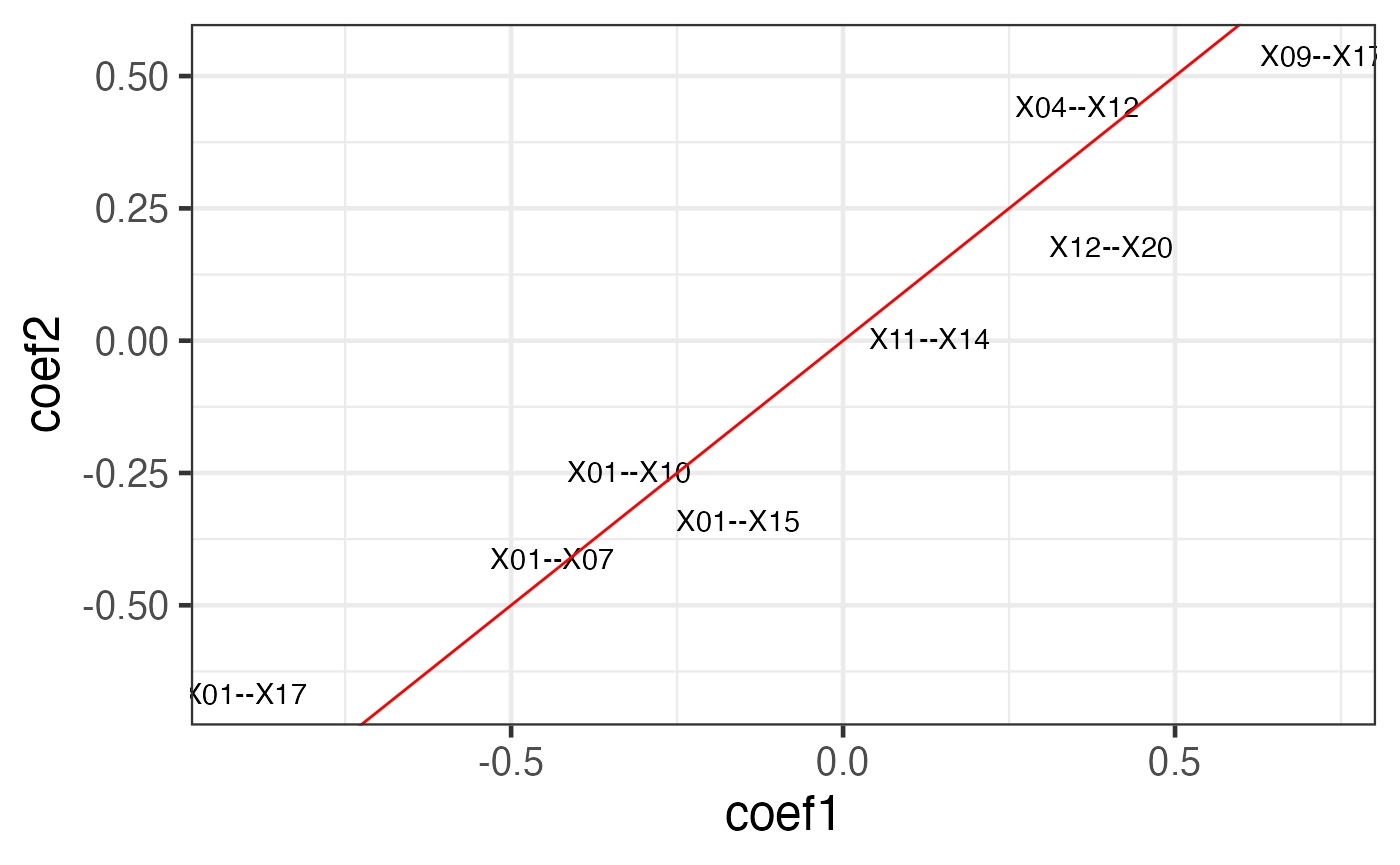
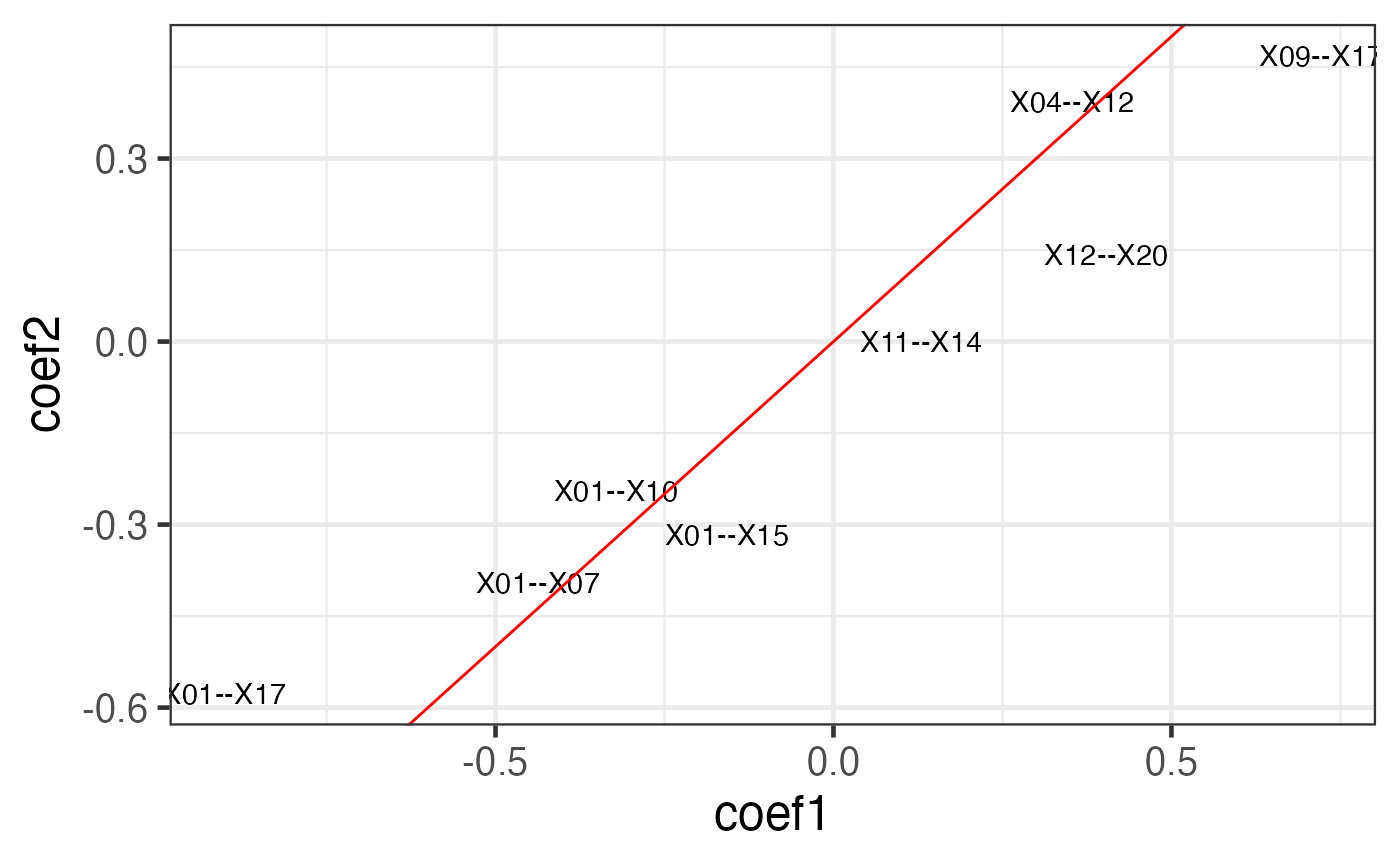
Built site for CPOP: 0.0.24@93ba422

diff --git a/articles/CPOP.html b/articles/CPOP.html
@@ -149,28 +149,28 @@
 <pre><code><span class="co">## Fitting CPOP model using alpha = 1</span></code></pre>
 <pre><code><span class="co">## Based on previous alpha, 0 features are kept</span></code></pre>
 <pre><code><span class="co">## CPOP1 - Step 01: Number of selected features: 0 out of 190</span></code></pre>
-<pre><code><span class="co">## CPOP1 - Step 02: Number of selected features: 8 out of 190</span></code></pre>
-<pre><code><span class="co">## CPOP1 - Step 03: Number of selected features: 15 out of 190</span></code></pre>
+<pre><code><span class="co">## CPOP1 - Step 02: Number of selected features: 9 out of 190</span></code></pre>
+<pre><code><span class="co">## CPOP1 - Step 03: Number of selected features: 16 out of 190</span></code></pre>
 <pre><code><span class="co">## 10 features was reached.</span></code></pre>
-<pre><code><span class="co">## A total of 15 features were selected.</span></code></pre>
-<pre><code><span class="co">## Removing sources of collinearity gives 12 features.</span></code></pre>
+<pre><code><span class="co">## A total of 16 features were selected.</span></code></pre>
+<pre><code><span class="co">## Removing sources of collinearity gives 13 features.</span></code></pre>
 <pre><code><span class="co">## 10 features was reached.</span></code></pre>
-<pre><code><span class="co">## A total of 12 features were selected.</span></code></pre>
-<pre><code><span class="co">## CPOP2 - Sign: Step 01: Number of leftover features: 9 out of 12</span></code></pre>
+<pre><code><span class="co">## A total of 13 features were selected.</span></code></pre>
+<pre><code><span class="co">## CPOP2 - Sign: Step 01: Number of leftover features: 9 out of 13</span></code></pre>
 <pre><code><span class="co">## The sign matrix between the two data:</span></code></pre>
 <pre><code><span class="co">##     </span>
 <span class="co">##      -1 0 1</span>
-<span class="co">##   -1  0 0 0</span>
+<span class="co">##   -1  0 0 1</span>
 <span class="co">##   0   0 0 0</span>
 <span class="co">##   1   3 0 0</span></code></pre>
-<pre><code><span class="co">## CPOP2 - Sign: Step 02: Number of leftover features: 8 out of 12</span>
+<pre><code><span class="co">## CPOP2 - Sign: Step 02: Number of leftover features: 8 out of 13</span>
 <span class="co">## The sign matrix between the two data:</span></code></pre>
 <pre><code><span class="co">##     </span>
 <span class="co">##      -1 0 1</span>
 <span class="co">##   -1  0 0 0</span>
 <span class="co">##   0   0 0 0</span>
 <span class="co">##   1   1 0 0</span></code></pre>
-<pre><code><span class="co">## CPOP2 - Sign: Step 03: Number of leftover features: 8 out of 12</span>
+<pre><code><span class="co">## CPOP2 - Sign: Step 03: Number of leftover features: 8 out of 13</span>
 <span class="co">## The sign matrix between the two data:</span></code></pre>
 <pre><code><span class="co">##     </span>
 <span class="co">##      -1 0 1</span>
@@ -194,16 +194,16 @@
 <pre><code><span class="co">## </span>
 <span class="co">## $data</span>
 <span class="co">## <span style="color: #949494;"># A tibble: 8 × 3</span></span>
-<span class="co">##   coef_name  coef1    coef2</span>
-<span class="co">##   <span style="color: #949494; font-style: italic;">&lt;fct&gt;</span>      <span style="color: #949494; font-style: italic;">&lt;dbl&gt;</span>    <span style="color: #949494; font-style: italic;">&lt;dbl&gt;</span></span>
-<span class="co">## <span style="color: #BCBCBC;">1</span> X01--X10  -<span style="color: #BB0000;">0.322</span> -<span style="color: #BB0000;">0.246</span>  </span>
-<span class="co">## <span style="color: #BCBCBC;">2</span> X09--X17   0.722  0.538  </span>
-<span class="co">## <span style="color: #BCBCBC;">3</span> X11--X14   0.130  0.003<span style="text-decoration: underline;">47</span></span>
-<span class="co">## <span style="color: #BCBCBC;">4</span> X12--X20   0.404  0.178  </span>
-<span class="co">## <span style="color: #BCBCBC;">5</span> X01--X07  -<span style="color: #BB0000;">0.437</span> -<span style="color: #BB0000;">0.412</span>  </span>
-<span class="co">## <span style="color: #BCBCBC;">6</span> X01--X15  -<span style="color: #BB0000;">0.158</span> -<span style="color: #BB0000;">0.340</span>  </span>
-<span class="co">## <span style="color: #BCBCBC;">7</span> X01--X17  -<span style="color: #BB0000;">0.901</span> -<span style="color: #BB0000;">0.667</span>  </span>
-<span class="co">## <span style="color: #BCBCBC;">8</span> X04--X12   0.353  0.443</span></code></pre>
+<span class="co">##   coef_name  coef1     coef2</span>
+<span class="co">##   <span style="color: #949494; font-style: italic;">&lt;fct&gt;</span>      <span style="color: #949494; font-style: italic;">&lt;dbl&gt;</span>     <span style="color: #949494; font-style: italic;">&lt;dbl&gt;</span></span>
+<span class="co">## <span style="color: #BCBCBC;">1</span> X01--X10  -<span style="color: #BB0000;">0.322</span> -<span style="color: #BB0000;">0.245</span>   </span>
+<span class="co">## <span style="color: #BCBCBC;">2</span> X09--X17   0.722  0.468   </span>
+<span class="co">## <span style="color: #BCBCBC;">3</span> X11--X14   0.130  0.000<span style="text-decoration: underline;">811</span></span>
+<span class="co">## <span style="color: #BCBCBC;">4</span> X12--X20   0.404  0.143   </span>
+<span class="co">## <span style="color: #BCBCBC;">5</span> X01--X07  -<span style="color: #BB0000;">0.437</span> -<span style="color: #BB0000;">0.395</span>   </span>
+<span class="co">## <span style="color: #BCBCBC;">6</span> X01--X15  -<span style="color: #BB0000;">0.158</span> -<span style="color: #BB0000;">0.316</span>   </span>
+<span class="co">## <span style="color: #BCBCBC;">7</span> X01--X17  -<span style="color: #BB0000;">0.901</span> -<span style="color: #BB0000;">0.577</span>   </span>
+<span class="co">## <span style="color: #BCBCBC;">8</span> X04--X12   0.353  0.393</span></code></pre>
 <p>We can see that most of the selected features had similar coefficients across the two data. This is exactly what CPOP is aiming to achieve: selecting features that are consistent within each datasets.</p>
 <p>However, each of the feature (e.g. <code>X01--X10</code>) actually corresponds to two of the original features in the raw data <code>X01</code> and <code>X10</code> in the data <code>x1</code> and <code>x2</code>. We can further visualise these features in the original features.</p>
 <div class="sourceCode" id="cb33"><pre class="downlit sourceCode r">
@@ -213,16 +213,16 @@
 <pre><code><span class="co">## </span>
 <span class="co">## $data</span>
 <span class="co">## <span style="color: #949494;"># A tibble: 8 × 7</span></span>
-<span class="co">##   from  to     coef1    coef2 coef_avg coef_abs sign_coef1</span>
-<span class="co">##   <span style="color: #949494; font-style: italic;">&lt;chr&gt;</span> <span style="color: #949494; font-style: italic;">&lt;chr&gt;</span>  <span style="color: #949494; font-style: italic;">&lt;dbl&gt;</span>    <span style="color: #949494; font-style: italic;">&lt;dbl&gt;</span>    <span style="color: #949494; font-style: italic;">&lt;dbl&gt;</span>    <span style="color: #949494; font-style: italic;">&lt;dbl&gt;</span> <span style="color: #949494; font-style: italic;">&lt;chr&gt;</span>     </span>
-<span class="co">## <span style="color: #BCBCBC;">1</span> X01   X10   -<span style="color: #BB0000;">0.322</span> -<span style="color: #BB0000;">0.246</span>    -<span style="color: #BB0000;">0.284</span>    0.284  Negative  </span>
-<span class="co">## <span style="color: #BCBCBC;">2</span> X09   X17    0.722  0.538     0.630    0.630  Positive  </span>
-<span class="co">## <span style="color: #BCBCBC;">3</span> X11   X14    0.130  0.003<span style="text-decoration: underline;">47</span>   0.066<span style="text-decoration: underline;">9</span>   0.066<span style="text-decoration: underline;">9</span> Positive  </span>
-<span class="co">## <span style="color: #BCBCBC;">4</span> X12   X20    0.404  0.178     0.291    0.291  Positive  </span>
-<span class="co">## <span style="color: #BCBCBC;">5</span> X01   X07   -<span style="color: #BB0000;">0.437</span> -<span style="color: #BB0000;">0.412</span>    -<span style="color: #BB0000;">0.425</span>    0.425  Negative  </span>
-<span class="co">## <span style="color: #BCBCBC;">6</span> X01   X15   -<span style="color: #BB0000;">0.158</span> -<span style="color: #BB0000;">0.340</span>    -<span style="color: #BB0000;">0.249</span>    0.249  Negative  </span>
-<span class="co">## <span style="color: #BCBCBC;">7</span> X01   X17   -<span style="color: #BB0000;">0.901</span> -<span style="color: #BB0000;">0.667</span>    -<span style="color: #BB0000;">0.784</span>    0.784  Negative  </span>
-<span class="co">## <span style="color: #BCBCBC;">8</span> X04   X12    0.353  0.443     0.398    0.398  Positive</span></code></pre>
+<span class="co">##   from  to     coef1     coef2 coef_avg coef_abs sign_coef1</span>
+<span class="co">##   <span style="color: #949494; font-style: italic;">&lt;chr&gt;</span> <span style="color: #949494; font-style: italic;">&lt;chr&gt;</span>  <span style="color: #949494; font-style: italic;">&lt;dbl&gt;</span>     <span style="color: #949494; font-style: italic;">&lt;dbl&gt;</span>    <span style="color: #949494; font-style: italic;">&lt;dbl&gt;</span>    <span style="color: #949494; font-style: italic;">&lt;dbl&gt;</span> <span style="color: #949494; font-style: italic;">&lt;chr&gt;</span>     </span>
+<span class="co">## <span style="color: #BCBCBC;">1</span> X01   X10   -<span style="color: #BB0000;">0.322</span> -<span style="color: #BB0000;">0.245</span>     -<span style="color: #BB0000;">0.283</span>    0.283  Negative  </span>
+<span class="co">## <span style="color: #BCBCBC;">2</span> X09   X17    0.722  0.468      0.595    0.595  Positive  </span>
+<span class="co">## <span style="color: #BCBCBC;">3</span> X11   X14    0.130  0.000<span style="text-decoration: underline;">811</span>   0.065<span style="text-decoration: underline;">6</span>   0.065<span style="text-decoration: underline;">6</span> Positive  </span>
+<span class="co">## <span style="color: #BCBCBC;">4</span> X12   X20    0.404  0.143      0.274    0.274  Positive  </span>
+<span class="co">## <span style="color: #BCBCBC;">5</span> X01   X07   -<span style="color: #BB0000;">0.437</span> -<span style="color: #BB0000;">0.395</span>     -<span style="color: #BB0000;">0.416</span>    0.416  Negative  </span>
+<span class="co">## <span style="color: #BCBCBC;">6</span> X01   X15   -<span style="color: #BB0000;">0.158</span> -<span style="color: #BB0000;">0.316</span>     -<span style="color: #BB0000;">0.237</span>    0.237  Negative  </span>
+<span class="co">## <span style="color: #BCBCBC;">7</span> X01   X17   -<span style="color: #BB0000;">0.901</span> -<span style="color: #BB0000;">0.577</span>     -<span style="color: #BB0000;">0.739</span>    0.739  Negative  </span>
+<span class="co">## <span style="color: #BCBCBC;">8</span> X04   X12    0.353  0.393      0.373    0.373  Positive</span></code></pre>
 <p>Here we see that despite the features that we have selected in terms of the ratio, in actual fact, only a handful of features are useful. In particular, <code>X01</code>, <code>X09</code> and <code>X17</code> are the main contributors.</p>
 </div>
 <div class="section level2">
@@ -236,12 +236,12 @@
 <pre><code><span class="co">## <span style="color: #949494;"># A tibble: 6 × 6</span></span>
 <span class="co">##   samples cpop_model1 cpop_model2 cpop_model_avg cpop_model_avg_prob</span>
 <span class="co">##   <span style="color: #949494; font-style: italic;">&lt;chr&gt;</span>         <span style="color: #949494; font-style: italic;">&lt;dbl&gt;</span>       <span style="color: #949494; font-style: italic;">&lt;dbl&gt;</span>          <span style="color: #949494; font-style: italic;">&lt;dbl&gt;</span>               <span style="color: #949494; font-style: italic;">&lt;dbl&gt;</span></span>
-<span class="co">## <span style="color: #BCBCBC;">1</span> 1             0.465       0.162          0.313               0.577</span>
-<span class="co">## <span style="color: #BCBCBC;">2</span> 2            -<span style="color: #BB0000;">1.79</span>       -<span style="color: #BB0000;">1.09</span>          -<span style="color: #BB0000;">1.44</span>                0.197</span>
-<span class="co">## <span style="color: #BCBCBC;">3</span> 3             0.853       0.629          0.741               0.677</span>
-<span class="co">## <span style="color: #BCBCBC;">4</span> 4            -<span style="color: #BB0000;">0.936</span>      -<span style="color: #BB0000;">0.821</span>         -<span style="color: #BB0000;">0.879</span>               0.294</span>
-<span class="co">## <span style="color: #BCBCBC;">5</span> 5            -<span style="color: #BB0000;">0.424</span>      -<span style="color: #BB0000;">0.614</span>         -<span style="color: #BB0000;">0.519</span>               0.373</span>
-<span class="co">## <span style="color: #BCBCBC;">6</span> 6             1.00        1.38           1.19                0.765</span>
+<span class="co">## <span style="color: #BCBCBC;">1</span> 1             0.465       0.119          0.292               0.572</span>
+<span class="co">## <span style="color: #BCBCBC;">2</span> 2            -<span style="color: #BB0000;">1.79</span>       -<span style="color: #BB0000;">0.957</span>         -<span style="color: #BB0000;">1.37</span>                0.210</span>
+<span class="co">## <span style="color: #BCBCBC;">3</span> 3             0.853       0.556          0.705               0.668</span>
+<span class="co">## <span style="color: #BCBCBC;">4</span> 4            -<span style="color: #BB0000;">0.936</span>      -<span style="color: #BB0000;">0.673</span>         -<span style="color: #BB0000;">0.805</span>               0.310</span>
+<span class="co">## <span style="color: #BCBCBC;">5</span> 5            -<span style="color: #BB0000;">0.424</span>      -<span style="color: #BB0000;">0.646</span>         -<span style="color: #BB0000;">0.535</span>               0.370</span>
+<span class="co">## <span style="color: #BCBCBC;">6</span> 6             1.00        1.29           1.15                0.758</span>
 <span class="co">## <span style="color: #949494;"># … with 1 more variable: cpop_model_avg_class &lt;chr&gt;</span></span></code></pre>
 <div class="sourceCode" id="cb38"><pre class="downlit sourceCode r">
 <code class="sourceCode R"><span class="va">predicted_plotdf</span> <span class="op">=</span> <span class="fu"><a href="../reference/predict_cpop.html">predict_cpop</a></span><span class="op">(</span><span class="va">cpop_result</span>, newz <span class="op">=</span> <span class="va">z3</span><span class="op">)</span> <span class="op"><a href="https://magrittr.tidyverse.org/reference/pipe.html" class="external-link">%&gt;%</a></span>

diff --git a/reference/cpop_network.html b/reference/cpop_network.html
@@ -74,9 +74,9 @@ using the `ggraph` package.</p></li>
 <span class="r-in"><span class="fu">plot_lratio_network</span><span class="op">(</span><span class="va">x</span>, type <span class="op">=</span> <span class="st">"ggraph"</span><span class="op">)</span></span>
 <span class="r-plt img"><img src="cpop_network-1.png" alt="" width="700" height="433"></span>
 <span class="r-in"><span class="fu">plot_lratio_network</span><span class="op">(</span><span class="va">x</span>, type <span class="op">=</span> <span class="st">"igraph"</span><span class="op">)</span></span>
-<span class="r-out co"><span class="r-pr">#&gt;</span> IGRAPH 57460d3 UN-- 10 9 -- </span>
+<span class="r-out co"><span class="r-pr">#&gt;</span> IGRAPH 3c0c9dc UN-- 10 9 -- </span>
 <span class="r-out co"><span class="r-pr">#&gt;</span> + attr: name (v/c)</span>
-<span class="r-out co"><span class="r-pr">#&gt;</span> + edges from 57460d3 (vertex names):</span>
+<span class="r-out co"><span class="r-pr">#&gt;</span> + edges from 3c0c9dc (vertex names):</span>
 <span class="r-out co"><span class="r-pr">#&gt;</span> [1] X1 --X10 X1 --X3  X1 --X4  X1 --X8  X1 --X9  X2 --X5  X2 --X7  X2 --X6 </span>
 <span class="r-out co"><span class="r-pr">#&gt;</span> [9] X10--X8 </span>
 <span class="r-in"><span class="fu">plot_lratio_network</span><span class="op">(</span><span class="va">x</span>, type <span class="op">=</span> <span class="st">"visNetwork"</span><span class="op">)</span></span>
